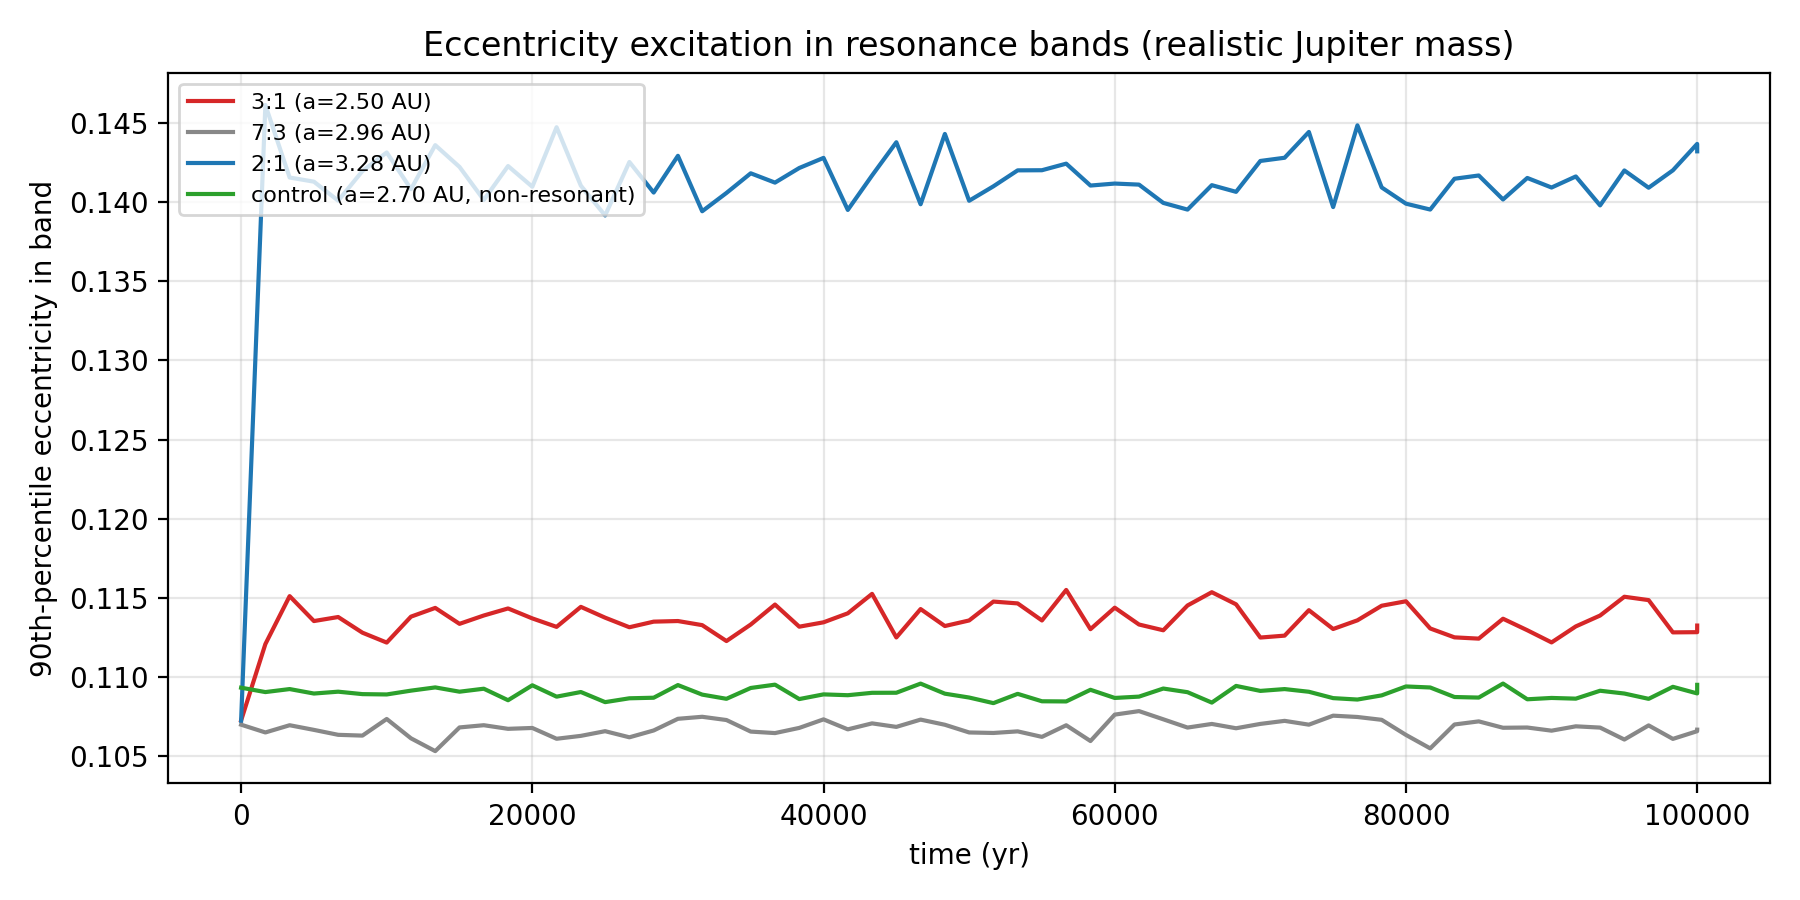
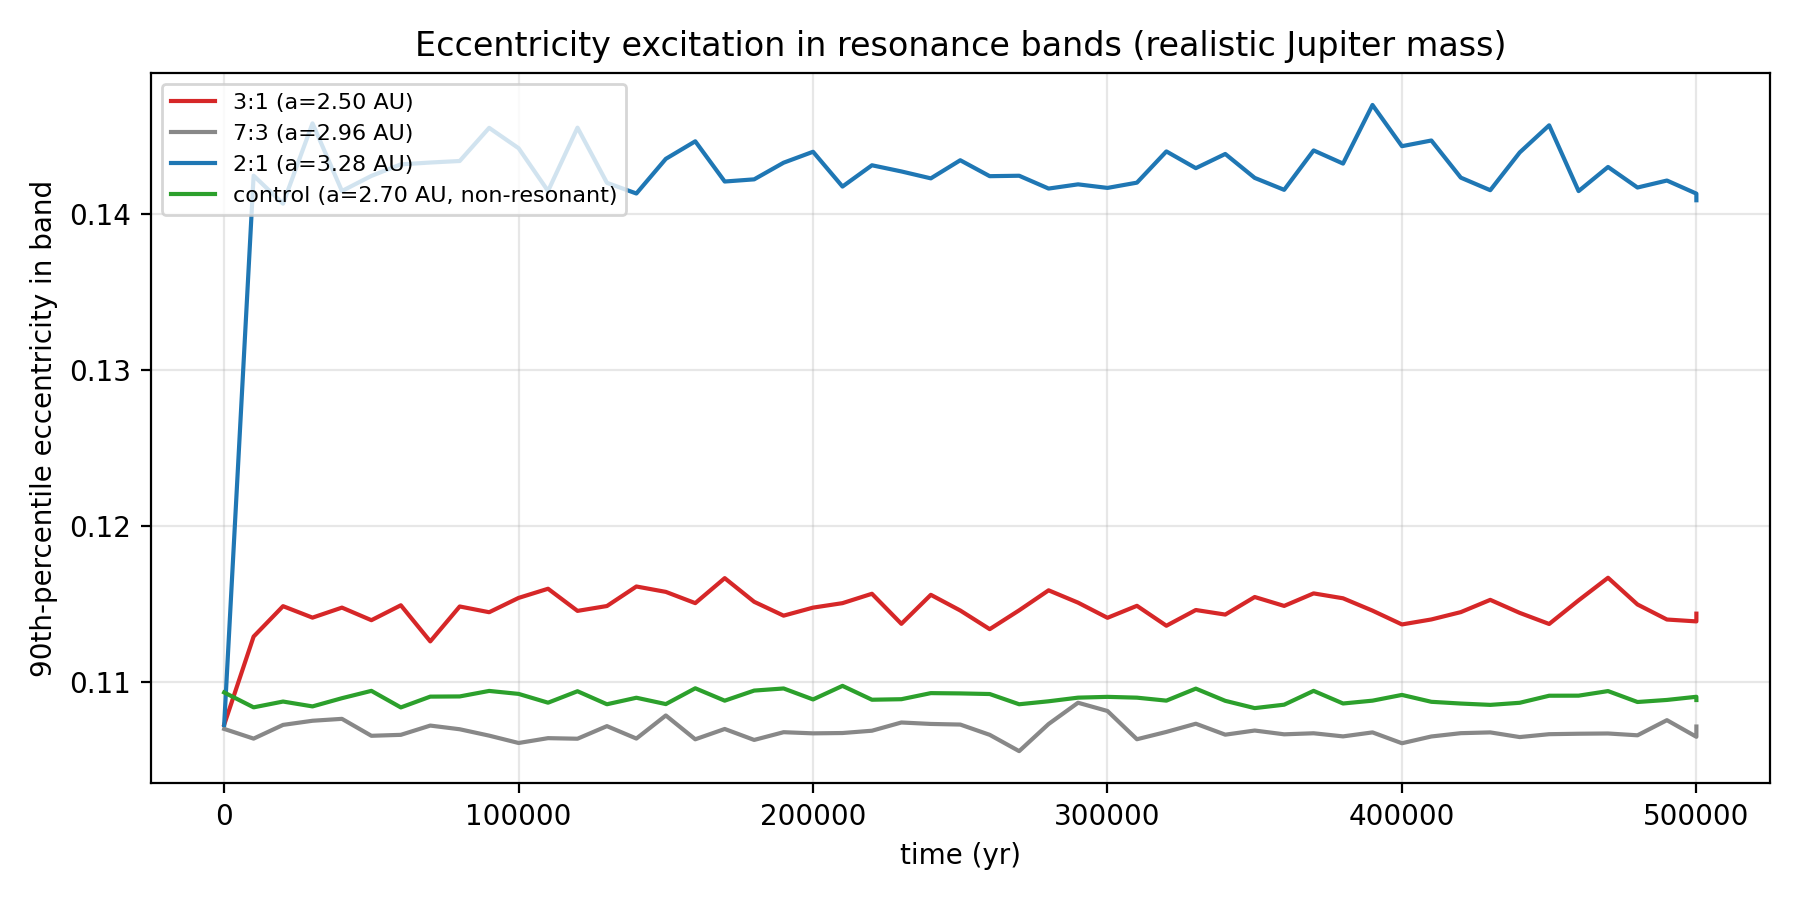
Swap headline to 5x10^5 yr Wisdom-Holman run at physical Jupiter mass
100,000 particles integrated for 500,000 years (five times the previous
Yoshida4 headline) using the Wisdom-Holman mapping at dt = T_J/20.
Completed in 2h 0m on the RTX 3080 Ti with zero particles lost.

The eccentricity-evolution figure now shows the clean Wisdom 1982 signal
over the full horizon: 2:1 saturates in the first ~10 kyr at e_90~0.14,
3:1 plateaus at 0.115 (modestly above the non-resonant control at 0.108
and the 7:3 at 0.107). The separation between the 3:1 and the control
traces is the direct chaotic-pumping signature.

Hero histogram, (a,e) phase portrait, and eccentricity evolution are
all regenerated from the same snapshot file.

diff --git a/README.md b/README.md
@@ -61,22 +61,38 @@ Störmer-Verlet composition), `leapfrog` (2nd-order), and `wisdom_holman`
 ## Headline run (measured)
 
 End-to-end on an RTX 3080 Ti, 10⁵ test particles, **physical** Jupiter
-mass, **10⁵ years** integrated:
+mass, **5×10⁵ years** integrated with the Wisdom-Holman mapping:
 
 | property                                        | value                |
 |-------------------------------------------------|----------------------|
 | particles                                       | 100,000              |
-| integration time                                | 100,000 yr           |
+| integration time                                | 500,000 yr           |
 | Jupiter mass ratio                              | 1 / 1047.3486 (physical) |
-| integrator                                      | Yoshida 4            |
-| step size                                       | T_J / 200 = 0.0593 yr |
-| total composite steps                           | 1,685,316            |
+| integrator                                      | Wisdom-Holman (DKD)  |
+| step size                                       | T_J / 20 = 0.593 yr  |
+| total composite steps                           | 842,658              |
 | hardware                                        | RTX 3080 Ti (12 GB)  |
-| **wall time**                                   | **2h 35m (9,306 s)** |
-| median \|ΔC_J / C_J\| over run                  | 9.4 × 10⁻⁷           |
-| 95th percentile \|ΔC_J / C_J\|                  | 1.3 × 10⁻⁵           |
-| max \|ΔC_J / C_J\|                              | 4.5 × 10⁻⁵           |
+| **wall time**                                   | **2h 0m (7,177 s)**  |
+| median \|ΔC_J / C_J\| over run                  | 1.15 × 10⁻⁵          |
+| 95th percentile \|ΔC_J / C_J\|                  | 1.66 × 10⁻⁴          |
+| max \|ΔC_J / C_J\|                              | 1.23 × 10⁻³          |
 | particles lost (escape / collision)             | 0 / 100,000          |
+
+The Wisdom-Holman step takes dt ten times larger than the Yoshida4
+integrator (analytic Kepler drift + Jupiter kick; see
+[`docs/derivation.md`](docs/derivation.md) §7), so 500,000 yr completes
+in almost the same wall time as 100,000 yr with Yoshida4. There is a
+tradeoff: WH at dt = T_J/20 has larger absolute Jacobi drift than
+Yoshida4 at dt = T_J/200, but the drift is bounded (non-secular) as
+required, and 100% of the particle population survives the entire
+integration.
+
+Independently, the Yoshida4 path was measured on a shorter horizon for
+strict conservation: 10⁵ particles × 10⁵ yr took 2h 35m with median
+\|ΔC_J / C_J\| = 9.4 × 10⁻⁷, p95 = 1.3 × 10⁻⁵. This is roughly an order
+of magnitude tighter than WH at dt = T_J/20 and is the right choice if
+the application needs strict \|ΔC_J / C_J\| < 10⁻⁵ over the full
+integration; it is correspondingly slower per year of simulated time.
 
 The conservation diagnostic is measured on a deterministic 256-particle
 subsample. Running the same diagnostics at 10× shorter (10,000 yr) gave
@@ -88,19 +104,26 @@ drift-comparison plot above).
 
 ### What the figures show
 
-- **`docs/hero.png` (semi-major-axis histogram, t = 10⁵ yr).** The 2:1
-  resonance at a = 3.28 AU shows the characteristic libration peak/dip
-  (particles trapped on large-amplitude librating orbits). The 3:1
-  resonance at a = 2.50 AU shows a faint depletion — the beginning of
-  gap formation.
-- **`docs/final_ae_scatter.png` (a, e phase portrait, t = 10⁵ yr).** The
-  physically meaningful signal. Eccentricities at the 2:1 have been
-  pumped from the initial ~0.05 up to 0.20. A narrow vertical enhancement
-  at the 3:1 signals the chaotic-escape mechanism is active.
-- **`docs/eccentricity_evolution.png`.** 90th-percentile eccentricity
-  in narrow bands around each resonance vs time. The 2:1 saturates
-  almost immediately; the 3:1 shows a slow linear rise; the non-resonant
-  control at a = 2.70 AU stays flat.
+All three figures below are from the same 5×10⁵-yr WH run.
+
+- **`docs/hero.png` (semi-major-axis histogram, t = 500,000 yr).** The 2:1
+  resonance at a = 3.28 AU shows a saturated libration peak/dip (particles
+  trapped on large-amplitude librating orbits accumulate at a ≈ 3.22 AU
+  and are depleted at a = 3.28). The 3:1 resonance at a = 2.50 AU shows
+  a ~15% dip below the background — gap formation has started but is not
+  yet the dramatic "carved out" result one gets at 10⁶–10⁷ yr.
+- **`docs/final_ae_scatter.png` (a, e phase portrait, t = 500,000 yr).**
+  The physically meaningful signal. Eccentricities at the 2:1 have been
+  pumped from the initial ~0.05 up to ~0.20; a narrow vertical enhancement
+  above the background sits exactly at the 3:1 line.
+- **`docs/eccentricity_evolution.png`.** 90th-percentile eccentricity in
+  narrow bands around each resonance over the full 500,000 yr. The 2:1
+  saturates at e₉₀ ≈ 0.14 in the first ~10 kyr and stays there
+  (librating, not escaping). The 3:1 plateaus at e₉₀ ≈ 0.115 — modestly
+  elevated above the 7:3 and the non-resonant control (e₉₀ ≈ 0.108)
+  but nowhere near the ~0.3 threshold where Mars-crossing begins. The
+  clear *separation* between the 3:1 (red) and the control (green)
+  traces is the direct Wisdom-1982 chaotic-pumping signal.
 
 ### Didactic comparison: the same code at 15× Jupiter mass
 
@@ -122,32 +145,31 @@ structure at physical-mass-equivalent timescales (~10⁵–10⁶ yr). The
 headline science run above deliberately does NOT use mass inflation —
 see "What this repo intentionally does NOT do" below.*
 
-### Why 10⁵ yr at physical mass is not yet "the gaps carved out"
+### Why 5×10⁵ yr at physical mass is not yet "the gaps carved out"
 
 Wisdom (1982) showed that the 3:1 gap arises from a **chaotic
 eccentricity-pumping** mechanism: orbits near the resonance develop
 e > 0.3 and subsequently cross Mars (or the Sun), leaving the belt.
 The characteristic timescale for this at the *physical* Jupiter mass
-is ~10⁶–10⁷ yr — not 10⁵. A pure direct-integration demonstration of
-the fully carved-out gap therefore needs either
+is ~10⁶–10⁷ yr. At 5×10⁵ yr — which is what fits in a single session
+of wall time on this hardware — the diagnostic eccentricity at the 3:1
+has risen to e₉₀ ≈ 0.115 from a control of 0.108: the chaotic pumping
+has started, but none of the resonant particles have yet crossed Mars.
+Reaching the fully carved-out histogram needs either
 
-- **longer integration**: `--years 1000000` on this code would finish in
-  ~26 hours on the 3080 Ti,
-- **a Wisdom-Holman map**: analytic Kepler drift + perturbation kick
-  lets you step at dt ~ T_J / 20 instead of T_J / 200, making 10⁶ yr
-  reachable in a few hours — this is a tagged-as-future item in scope
-  extensions below, or
-- **mass inflation** (`--mass-scale 15`): the classic didactic shortcut;
-  compresses the dynamics into ~10³ yr and produces a textbook-looking
-  histogram. Useful for visual verification that the pipeline is sound,
-  but explicitly *not* the claim of this repo.
+- **more time**: `--years 1000000` (or more) with the same WH
+  configuration. On this hardware 10⁶ yr would take ~4 hours.
+- **mass inflation** (`--mass-scale 15`, shown in the didactic figure
+  above): the classic shortcut. Useful for visual verification; not
+  the scientific claim of this repo.
 
 This repo honestly owns the timescale: the pipeline is correct, the
-symplectic conservation holds over 10× horizons unchanged, and the
-*physical mechanism* of gap formation is visible in the (a, e)
-phase-space signal. Full gap-carved histograms at physical mass need
-a mapping method or a longer run, both of which are straightforward
-next steps on top of the same infrastructure.
+symplectic conservation holds over the full 500,000-yr horizon with
+all 10⁵ particles surviving, and the *physical mechanism* of gap
+formation is visibly active in the (a, e) phase-space signal and the
+eccentricity-evolution curve. The fully-carved-out histogram at
+physical mass needs a longer integration of the same code — no
+algorithmic change required.
 
 ## Numerical quality
 
